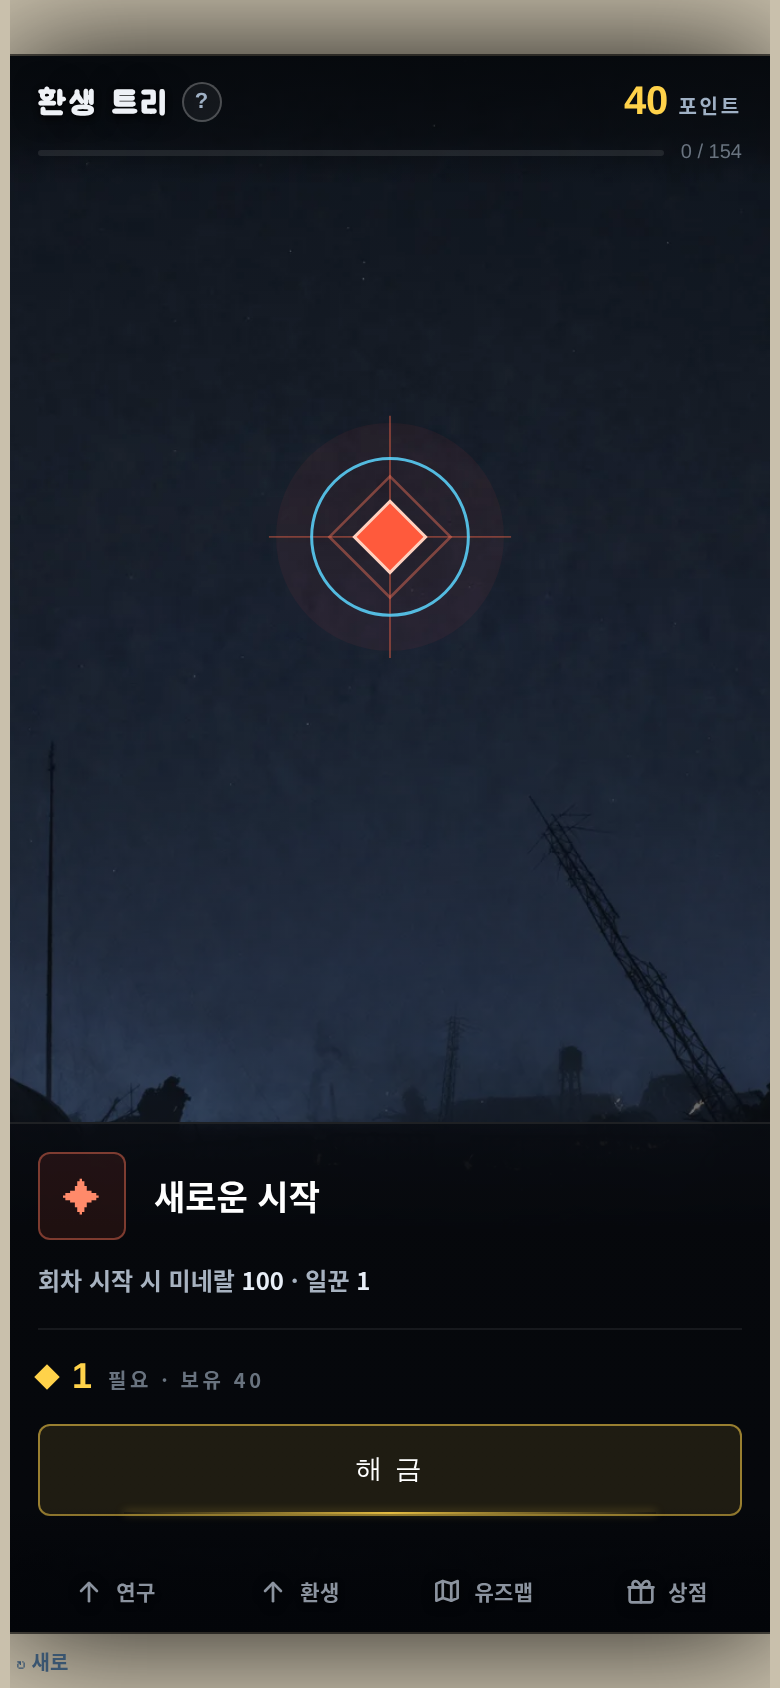
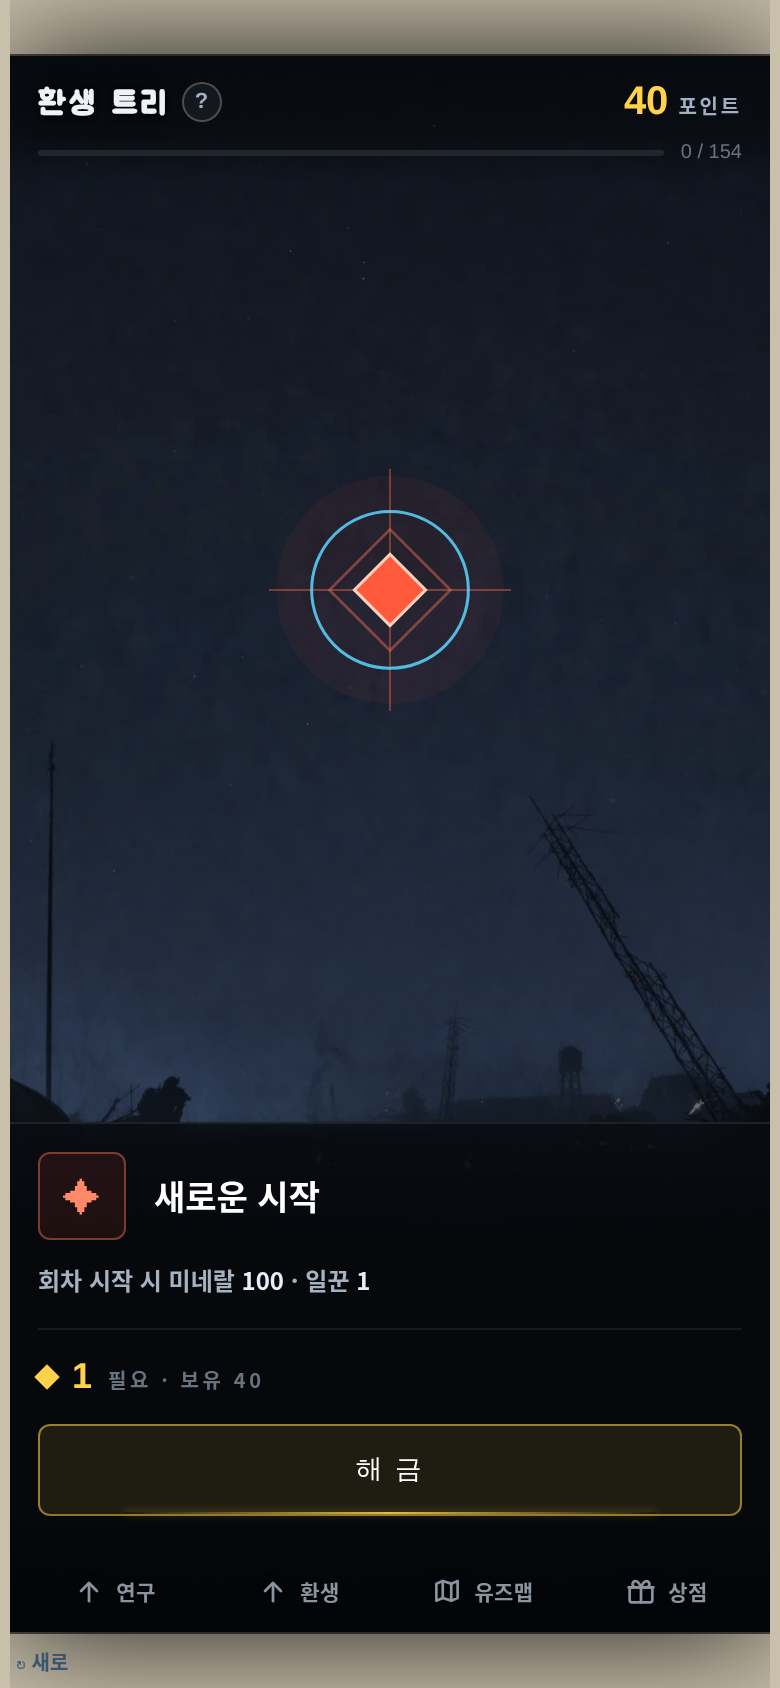
🌌 환생 트리: 화면을 다 쓰고 · 축소는 해금을 따라가고 · 선이 별을 안 침범한다
ⓐ 축소 한계를 해금에 묶는다
- 첫 회차엔 별이 다섯뿐이라 마음껏 축소하면 화면이 텅 빈다. 그렇다고 상수로
  막으면 후반이 답답하다. ⇒ 하한을 「전체 보기」 배율(_ctFitZ)의 0.72배로
  둔다. 별이 늘면 전체 보기 배율이 내려가고 하한도 저절로 풀린다.
- ⛔ 회차·개수로 표를 짜지 않았다 — 계열이 하나 늘면 그 표가 곧 거짓말이 된다.
- ⚠ 기준은 클램프 **전** 값을 적는다. 클램프한 값을 넣으면 자기 자신을 기준
  삼아 하한이 매번 조금씩 올라간다.

ⓑ 하단 구역이 있을 때만 자리를 뺏는다
- campTreeSheetH() 가 시트 높이를 **실측**해서 월드 단위로 준다. 안 골랐으면 0
  이라 트리가 화면 전체를 쓴다. 고르면 시트가 올라오고 고른 별은 시트 위 영역
  한가운데(campTreeSelY)에 앉는다. 해제하면 다시 전체 화면.
- 옛 상수 CAMP_TREE_SEL_Y(-150) · CAMP_TREE_FIT_LIFT(26) 을 걷어냈다 —
  시트 높이는 고른 별에 따라 190~250px 사이를 오간다(실측).

ⓒ 선이 별 안으로 파고들던 것
- campTreeLink 가 양 끝을 각 별의 반지름 + 3 만큼 물린다. 짧은 링크에서 선이
  뒤집히지 않도록 거리의 45% 로 막는다. 호출부 넷에 반지름을 넘긴다.

검증
- 스모크에 셋 다 넣었다: 시트 0일 때 전체 화면 · 고른 별이 시트 위 한가운데 ·
  모든 선 끝이 별 밖 · 다 열면 축소 한계가 풀린다.
- 주입 시험으로 셋 다 무는 것을 확인했다(물림 제거 → 선 9개 파고듦 / 시트
  높이를 상수로 → 38px 어긋남 / 하한을 상수로 → 안 풀림).
- 전체 스모크 통과 (lobby 158 · game 59 · sandbox 10 · duo 11).

⚠ 안 고친 것: 진행도 분모(campTreeTotal)는 사슬 갈래의 마디를 안 세는데
   campTreeOwned 는 센다. 정상 구매 경로로는 그 키가 안 생겨 지금은 안
   드러나지만, 저장본 이관 같은 데서 생기면 100%를 넘는다(159/154).

Claude-Session: https://claude.ai/code/session_01EtmtaHFCqqHiZ1fmbN5ZoQ

Changed region(s): [[0.4, 0.2464, 0.6154, 0.4005]]

diff --git a/js/19-camp.js b/js/19-camp.js
@@ -642,7 +642,20 @@ let _campTreeSel = null;            // 지금 고른 별 {t:'br'|'gp'|'n', a, b}
 let _campTreeView = { x:0, y:0, z:1 };
 const CAMP_TREE_ZMIN = 0.30, CAMP_TREE_ZMAX = 2.6;
 const CAMP_TREE_ZSEL = 1.55;        // 별을 골랐을 때의 배율
-const CAMP_TREE_SEL_Y = -150;       // 고른 별이 앉을 화면 높이(0=한가운데) — 아래 시트를 피한다
+// 📏 하단 구역이 가리는 높이 — **월드 좌표(viewBox 단위)** 로 돌려준다.
+//   ⛔ 상수로 박지 말 것(옛 CAMP_TREE_SEL_Y = -150 이 그랬다). 시트 높이는 고른 별에 따라
+//     달라지고, **안 골랐을 때는 0** 이다 — 그때 트리는 화면 전체를 쓴다(2026-09-02 사용자 확정).
+function campTreeSheetH(){
+  const el = document.getElementById('campTree'); if(!el) return 0;
+  if(!el.classList.contains('picked')) return 0;      // 안 골랐으면 시트가 자리를 안 뺏는다
+  const svg = document.getElementById('ctSvg'), sh = el.querySelector('.ctSheet');
+  if(!svg || !sh) return 0;
+  const rs = svg.getBoundingClientRect(), rh = sh.getBoundingClientRect();
+  if(!(rs.height > 0) || !(rh.height > 0)) return 0;
+  const vb = (svg.getAttribute('viewBox') || '0 0 430 840').split(/\s+/).map(Number);
+  return rh.height / rs.height * vb[3]; }
+// 고른 별이 앉을 화면 높이 — **시트 위 영역의 한가운데**다(0 = 화면 한가운데)
+function campTreeSelY(){ return -campTreeSheetH() / 2; }
 function campTreeIsSel(t, a, b){ const s = _campTreeSel;
   return !!(s && s.t === t && s.a === a && (b == null || s.b === b)); }
 
@@ -695,9 +708,23 @@ function campTreeGem(o){
     ' data-k="' + o.k + '" data-n="' + (o.n == null ? 0 : o.n) + '"/>');
   return s.join('');
 }
-function campTreeLink(a, b, col, lit, f){
-  return '<line x1="' + a.x.toFixed(1) + '" y1="' + a.y.toFixed(1) + '" x2="' + b.x.toFixed(1) +
-    '" y2="' + b.y.toFixed(1) + '" stroke="' + (lit ? col : 'rgba(200,220,240,.20)') +
+// 별 하나의 반지름 — **그릴 때와 선을 물릴 때가 같은 값을 써야 한다.**
+//   ⛔ 여기 값을 바꾸면 campTreeSvg 의 gem 반지름도 같이 바꿀 것(둘이 어긋나면 선이 다시 파고든다).
+const CAMP_TREE_R_CORE = 13;                    // 가운데 마름모
+const CAMP_TREE_R_BRN = 13, CAMP_TREE_R_GPN = 11;   // 갈래 마디 · 묶음 마디
+function campTreeNodeR(k, n){ return campTreeState(k, n) === 'own' ? 13 : 15; }
+const CAMP_TREE_LINK_GAP = 3;                   // 별 테두리와 선 끝 사이 틈
+// ⛔ **중심에서 중심으로 긋지 말 것.** 그러면 선이 별 안으로 파고든다(2026-09-02 사용자 지적).
+//   양 끝을 각 별의 반지름 + 틈만큼 물린다. ⚠ 짧은 링크에서 선이 뒤집히지 않도록 거리의 45% 로 막는다.
+function campTreeLink(a, b, col, lit, f, ra, rb){
+  const dx = b.x - a.x, dy = b.y - a.y, d = Math.hypot(dx, dy) || 1;
+  const ux = dx / d, uy = dy / d;
+  const t0 = Math.min(d * .45, (ra || 0) + CAMP_TREE_LINK_GAP);
+  const t1 = Math.min(d * .45, (rb || 0) + CAMP_TREE_LINK_GAP);
+  const x1 = a.x + ux * t0, y1 = a.y + uy * t0;
+  const x2 = b.x - ux * t1, y2 = b.y - uy * t1;
+  return '<line x1="' + x1.toFixed(1) + '" y1="' + y1.toFixed(1) + '" x2="' + x2.toFixed(1) +
+    '" y2="' + y2.toFixed(1) + '" stroke="' + (lit ? col : 'rgba(200,220,240,.20)') +
     '" stroke-width="' + (lit ? 2 : .9) + '" opacity="' + ((lit ? .62 : 1) * f).toFixed(2) + '"' +
     (lit ? '' : ' stroke-dasharray="2 3"') + '/>'; }
 function campTreeSvg(){
@@ -711,8 +738,9 @@ function campTreeSvg(){
         for(let n = 1, mx = campRtMax(L.k); n <= mx; n++){ const st = campTreeState(L.k, n); if(!st) continue;
           const b = campTreePos(L.k, n), pk = campRtParent(L.k, n), ci = pk.indexOf(':');
           const a = (ci < 0) ? { x:0, y:0 } : campTreePos(pk.slice(0, ci), +pk.slice(ci + 1));
+          const ra = (ci < 0) ? CAMP_TREE_R_CORE : campTreeNodeR(pk.slice(0, ci), +pk.slice(ci + 1));
           const me = campTreeIsSel('n', L.k, n), f = F(me);
-          rows.push(campTreeLink(a, b, B.col, st === 'own', f));
+          rows.push(campTreeLink(a, b, B.col, st === 'own', f, ra, st === 'own' ? 13 : 15));
           rows.push(campTreeGem({ x:b.x, y:b.y, r: st === 'own' ? 13 : 15, col:B.col, state:st,
             gr:campRtGrade(L.k, n), ic:L.ic, label: st === 'own' ? '' : campNum(campRtCost(L.k, n)),
             me, f, k:L.k, n })); } }
@@ -721,14 +749,14 @@ function campTreeSvg(){
       continue; }
     const sb = campTreeBrState(bk); if(!sb) continue;
     const p = campTreeBrPos(bk), meB = campTreeIsSel('br', bk);
-    rows.push(campTreeLink({ x:0, y:0 }, p, B.col, sb === 'own', F(meB)));
+    rows.push(campTreeLink({ x:0, y:0 }, p, B.col, sb === 'own', F(meB), CAMP_TREE_R_CORE, CAMP_TREE_R_BRN));
     rows.push(campTreeGem({ x:p.x, y:p.y, r:13, col:B.col, state:sb, gr:'보통',
       label: sb === 'own' ? '' : campNum(CAMP_RT_BR_COST), me:meB, f:F(meB),
       k:CAMP_RT_BR_KEY(bk), n:0 }));
     if(sb === 'own'){
       for(const g of CAMP_RT_GRP_KEYS){ const sg = campTreeGpState(bk, g); if(!sg) continue;
         const q = campTreeGpPos(bk, g), meG = campTreeIsSel('gp', bk, g);
-        rows.push(campTreeLink(p, q, B.col, sg === 'own', F(meG)));
+        rows.push(campTreeLink(p, q, B.col, sg === 'own', F(meG), CAMP_TREE_R_BRN, CAMP_TREE_R_GPN));
         rows.push(campTreeGem({ x:q.x, y:q.y, r:11, col:B.col, state:sg, gr:'흔함',
           label: sg === 'own' ? '' : campNum(CAMP_RT_GP_COST), me:meG, f:F(meG),
           k:CAMP_RT_GP_KEY(bk, g), n:0 }));
@@ -736,8 +764,9 @@ function campTreeSvg(){
         for(const L of CAMP_RT_LINES){ if(L.br !== bk || L.grp !== g) continue;
           for(let n = 1, mx = campRtMax(L.k); n <= mx; n++){ const st = campTreeState(L.k, n); if(!st) continue;
             const b = campTreePos(L.k, n), a = (n === 1) ? q : campTreePos(L.k, n - 1);
+            const ra = (n === 1) ? CAMP_TREE_R_GPN : campTreeNodeR(L.k, n - 1);
             const me = campTreeIsSel('n', L.k, n), f = F(me);
-            rows.push(campTreeLink(a, b, B.col, st === 'own', f));
+            rows.push(campTreeLink(a, b, B.col, st === 'own', f, ra, st === 'own' ? 13 : 15));
             rows.push(campTreeGem({ x:b.x, y:b.y, r: st === 'own' ? 13 : 15, col:B.col, state:st,
               gr:campRtGrade(L.k, n), ic:L.ic, label: st === 'own' ? '' : campNum(campRtCost(L.k, n)),
               me, f, k:L.k, n })); } } } }
@@ -1056,7 +1085,7 @@ function campTreeHelp(on){
   if(on){ h.querySelector('.ctHelpCard').innerHTML = campTreeHelpHTML(); h.classList.remove('hide'); }
   else h.classList.add('hide'); }
 
-// 🔍 뷰 적용 — 고른 별이 있으면 그 자리가 화면 (0, CAMP_TREE_SEL_Y) 에 오도록 옮기고 확대한다.
+// 🔍 뷰 적용 — 고른 별이 있으면 그 자리가 화면 (0, campTreeSelY()) 에 오도록 옮기고 확대한다.
 //   ⭐ 확대·이동은 **여기 한 곳**에서만 계산한다. 그리기(campTreeSvg)는 월드 좌표만 안다.
 function campTreeApplyView(){
   const g = document.getElementById('ctG'); if(!g) return;
@@ -1106,7 +1135,7 @@ function campTreeTweenStep(){
 // 고른 별로 뷰를 옮긴다(선택이 없으면 그대로 둔다)
 function campTreeFocus(now){ const sel = _campTreeSel; if(!sel) return;
   const p = campTreeSelPos(sel); if(!p) return;
-  campTreeTweenTo({ P:p, A:{ x:0, y:CAMP_TREE_SEL_Y },
+  campTreeTweenTo({ P:p, A:{ x:0, y:campTreeSelY() },
     z: Math.max(_campTreeView.z, CAMP_TREE_ZSEL) }, now); }
 // 📊 해금 진행도 — 열 수 있는 칸 전부(가운데 1 + 갈래 4 + 묶음 16 + 계열 32×5)를 분모로 센다.
 //   ⚠ 숫자를 손으로 적지 말 것 — 계열이나 갈래가 늘면 저절로 따라와야 한다.
@@ -1186,7 +1215,14 @@ let _ctBound = false, _ctPtrs = new Map(), _ctDrag = null, _ctPinch = null, _ctM
 let _ctDown = null, _ctDownXY = null;   // 👆 pointerdown 때 잡아 둔 별과 그 자리
 const CAMP_TREE_ZSTEP = 1.22;       // 휠 한 칸 · 두 번 누르기의 배율
 const CAMP_TREE_TAP_SLOP = 14;      // 이만큼까지는 「누른 것」 — 손가락은 가만히 못 있는다
-function campTreeClampZ(z){ return Math.max(CAMP_TREE_ZMIN, Math.min(CAMP_TREE_ZMAX, z)); }
+// 🔍 축소 한계는 **해금 정도에 따라 풀린다** (2026-09-02 사용자 확정)
+//   초반엔 별이 몇 개뿐이라 마음껏 축소하면 화면이 텅 빈다. 그래서 「전체 보기」 배율보다
+//   조금만 더 물러날 수 있게 막는다. 별이 늘면 전체 보기 배율이 저절로 내려가고 하한도
+//   따라 내려간다 — ⛔ 회차·개수로 표를 짜지 말 것(계열이 늘면 표가 곧 거짓말이 된다).
+const CAMP_TREE_ZOUT = 0.72;        // 전체 보기 배율의 몇 배까지 더 물러날 수 있나
+let _ctFitZ = 0;                    // 마지막 「전체 보기」 배율 — campTreeFit 이 적어 둔다
+function campTreeZMin(){ return Math.max(CAMP_TREE_ZMIN, (_ctFitZ || 0) * CAMP_TREE_ZOUT); }
+function campTreeClampZ(z){ return Math.max(campTreeZMin(), Math.min(CAMP_TREE_ZMAX, z)); }
 // 화면(클라이언트) 좌표 → SVG viewBox 좌표
 function campTreeToView(cx, cy){
   const svg = document.getElementById('ctSvg'); if(!svg) return { x:0, y:0 };
@@ -1279,7 +1315,6 @@ function campTreeBind(){
 const CAMP_TREE_FIT_PAD = 30;        // 가장자리 여백(viewBox 단위)
 const CAMP_TREE_FIT_ZMAX = 1.35;     // ⚠ 「전체 보기」의 배율 상한 — 첫 회차엔 별이 다섯뿐이라
                                      //   경계에 딱 맞추면 그 다섯이 화면을 꽉 채워 어색하다.
-const CAMP_TREE_FIT_LIFT = 26;       // 아래 시트를 피해 살짝 위로
 function campTreeFit(now){ _campTreeSel = null;
   campTreeRender();
   const svg = document.getElementById('ctSvg');
@@ -1296,12 +1331,19 @@ function campTreeFit(now){ _campTreeSel = null;
     n++; });
   const w0 = x1 - x0, h0 = y1 - y0;
   if(!n || !svg || !(w0 > 1) || !(h0 > 1)){
+    _ctFitZ = 0.62;
     campTreeTweenTo({ P:{x:0,y:0}, A:{x:0,y:0}, z:0.62 }, now); return; }
   const vb = (svg.getAttribute('viewBox') || '0 0 430 660').split(/\s+/).map(Number);
-  const w = vb[2] - CAMP_TREE_FIT_PAD * 2, h = vb[3] - CAMP_TREE_FIT_PAD * 2;
-  const z = campTreeClampZ(Math.min(w / w0, h / h0, CAMP_TREE_FIT_ZMAX));
+  // ⭐ 시트가 가리는 만큼을 **빼고** 맞춘다 — 안 골랐으면 0 이라 화면 전체를 쓴다.
+  const sheet = campTreeSheetH();
+  const w = vb[2] - CAMP_TREE_FIT_PAD * 2, h = vb[3] - sheet - CAMP_TREE_FIT_PAD * 2;
+  // ⚠ 하한(campTreeZMin)의 기준이 되는 값이라 **클램프 전** 값을 적어 둔다 — 클램프한 값을
+  //   넣으면 자기 자신을 기준으로 삼아 하한이 점점 올라간다.
+  const zRaw = Math.min(w / w0, h / h0, CAMP_TREE_FIT_ZMAX);
+  _ctFitZ = zRaw;
+  const z = campTreeClampZ(zRaw);
   const cx = (x0 + x1) / 2, cy = (y0 + y1) / 2;
-  campTreeTweenTo({ P:{x:cx,y:cy}, A:{x:0,y:-CAMP_TREE_FIT_LIFT}, z }, now); }
+  campTreeTweenTo({ P:{x:cx,y:cy}, A:{x:0,y:-sheet / 2}, z }, now); }
 // 👆 그 자리에서 가장 가까운 별 — 없으면 null.
 //   ⚠ 임계는 **화면 픽셀**이다(월드 좌표가 아니다). 축소하면 별이 촘촘해 보이므로
 //     화면 기준으로 재야 「눈에 보이는 만큼 가까운 것」을 고른다.

diff --git a/test/smoke.js b/test/smoke.js
@@ -2157,9 +2157,22 @@ async function groupLobby(){
       // 상하한이 있고, 「전체」는 늘 그 사이로 돌아온다
       campTreeZoomAt(1e6,null); const hi=_campTreeView.z;
       campTreeZoomAt(1e-6,null); const lo=_campTreeView.z;
-      assert(hi===CAMP_TREE_ZMAX&&lo===CAMP_TREE_ZMIN,'확대 상하한이 안 걸린다: '+lo+'~'+hi);
+      assert(hi===CAMP_TREE_ZMAX,'확대 상한이 안 걸린다: '+hi);
+      // ⭐ **축소 하한은 해금 정도를 따라간다**(2026-09-02) — 상수가 아니라 「전체 보기」 배율에 묶여 있다.
+      //   초반엔 별이 몇 개뿐이라 마음껏 축소하면 화면이 텅 비기 때문이다.
+      assert(Math.abs(lo-campTreeZMin())<1e-9,'축소 하한이 campTreeZMin 과 다르다: '+lo+' vs '+campTreeZMin());
+      assert(lo>=CAMP_TREE_ZMIN-1e-9,'축소 하한이 절대 하한 아래로 내려갔다: '+lo);
       campTreeFit(true);
       assert(_campTreeView.z>=CAMP_TREE_ZMIN&&_campTreeView.z<=CAMP_TREE_ZMAX,'전체 보기 배율이 범위 밖');
+      // ⭐ 별이 적을 때가 많을 때보다 **덜 물러난다** — 그게 「안 비어 보이게」의 뜻이다.
+      { const C=campState(), keep=JSON.parse(JSON.stringify(C.rbTree||{})), kp=C.rbPts;
+        C.rbPts=1e12; C.rbTree={root:1};
+        for(const L of CAMP_RT_LINES) C.rbTree[L.k]=campRtMax(L.k);
+        for(const b in CAMP_TREE_BR){ if(campRtIsChain(b)) continue; C.rbTree['br:'+b]=1;
+          for(const g of CAMP_RT_GRP_KEYS) if(campRtGpLive(b,g)) C.rbTree['gp:'+b+g]=1; }
+        campTreeRender(); campTreeFit(true); const loFull=campTreeZMin();
+        C.rbTree=keep; C.rbPts=kp; campTreeRender(); campTreeFit(true); const loFew=campTreeZMin();
+        assert(loFull<loFew-1e-9,'다 열어도 축소 한계가 안 풀린다: 적을때 '+loFew.toFixed(3)+' → 다열림 '+loFull.toFixed(3)); }
       // 별을 고르면 확대되고, **빈 하늘을 누르면** 되돌아간다(⊘ 는 없앴다)
       campTreeTap('gather',3);
       assert($('campTree').classList.contains('picked'),'별을 골랐는데 고른 상태가 아니다');
@@ -2168,6 +2181,41 @@ async function groupLobby(){
       assert(/campTreeDesel/.test(String(campTreeBind)),'빈 곳을 눌러도 해제되지 않는다');
       campTreeDesel();
       assert(!$('campTree').classList.contains('picked'),'해제했는데 고른 상태가 남는다');
+      // 🖼 하단 구역 ↔ 전체 화면 (2026-09-02 사용자 확정)
+      //   안 골랐으면 시트가 자리를 안 뺏고 트리가 화면 전체를 쓴다.
+      //   별을 고르면 시트가 올라오고, 고른 별은 **시트 위 영역 한가운데**에 앉는다.
+      //   ⛔ 옛 상수(CAMP_TREE_SEL_Y=-150 · FIT_LIFT=26)로 되돌리지 말 것 — 시트 높이는
+      //     고른 별에 따라 달라져서 상수로는 못 맞춘다(실측으로 190~250px 사이를 오간다).
+      { assert(campTreeSheetH()===0,'안 골랐는데 시트가 자리를 차지한다: '+campTreeSheetH());
+        const svg=$('ctSvg'), sh=$('campTree').querySelector('.ctSheet');
+        const hits=[...svg.querySelectorAll('.ctHit[data-k]')].filter(e=>e.getAttribute('data-k')!=='root');
+        assert(hits.length,'고를 별이 하나도 안 그려졌다');
+        const pk=hits[hits.length-1], kk=pk.getAttribute('data-k'), nn=+pk.getAttribute('data-n');
+        campTreeTap(kk,nn); campTreeFocus(true);            // ⚠ 애니를 기다리지 않고 곧장 끝 자리로
+        assert(campTreeSheetH()>0,'별을 골랐는데 시트 높이가 0 이다');
+        const rs=svg.getBoundingClientRect(), rh=sh.getBoundingClientRect();
+        const again=[...svg.querySelectorAll('.ctHit[data-k="'+kk+'"][data-n="'+nn+'"]')][0];
+        assert(again,'고른 별이 화면에서 사라졌다');
+        const rn=again.getBoundingClientRect(), cy=rn.top+rn.height/2;
+        assert(rn.bottom<=rh.top+1,'고른 별이 하단 구역에 가린다: 별 '+Math.round(rn.bottom)+' vs 시트 '+Math.round(rh.top));
+        const want=rs.top+(rh.top-rs.top)/2;
+        assert(Math.abs(cy-want)<12,'고른 별이 시트 위 한가운데가 아니다: '+Math.round(cy)+' vs '+Math.round(want));
+        campTreeDesel(); campTreeFit(true);
+        assert(campTreeSheetH()===0,'해제했는데 시트가 자리를 남긴다'); }
+      // 🔗 선이 별 **안으로 파고들지 않는다** (2026-09-02 사용자 지적)
+      //   ⛔ 중심에서 중심으로 긋지 말 것. 양 끝을 반지름 + 틈만큼 물린다.
+      { const g=$('ctG'); const gems=[...g.querySelectorAll('.ctGem')].map(e=>({
+          x:+e.getAttribute('cx'), y:+e.getAttribute('cy'), r:+e.getAttribute('r') }));
+        assert(gems.length>2,'별이 너무 적어 못 잰다');
+        let worst=1e9, bad=0;
+        for(const ln of g.querySelectorAll('line')){
+          const pts=[[+ln.getAttribute('x1'),+ln.getAttribute('y1')],[+ln.getAttribute('x2'),+ln.getAttribute('y2')]];
+          for(const [px,py] of pts){ let near=1e9, nr=0;
+            for(const m of gems){ const d=Math.hypot(px-m.x,py-m.y); if(d-m.r<near-nr){ near=d; nr=m.r; } }
+            const slack=near-nr; if(slack<worst) worst=slack;
+            if(slack<-0.5) bad++; } }
+        assert(!bad,'선 '+bad+'개가 별 안으로 파고든다(가장 깊이 '+worst.toFixed(1)+')');
+        assert(worst>0.5,'선 끝이 별 테두리에 붙어 있다(틈 '+worst.toFixed(1)+')'); }
       // 🏷 화면 제목은 **한 규격** — 유즈맵 선택·상점과 같은 글꼴·크기·자간·굵기여야 한다
       //   (2026-09-01 사용자 지시). 화면마다 따로 정하면 같은 자리가 화면마다 달라진다.
       { const a=$('campTree').querySelector('.ctTitle'), b2=$('campReb').querySelector('.crTitle');
